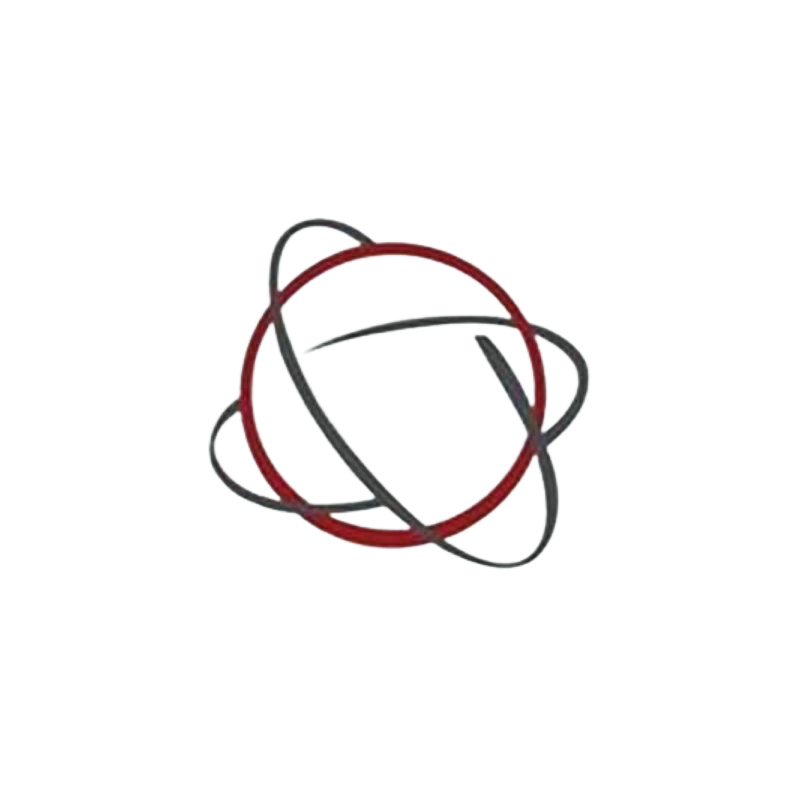
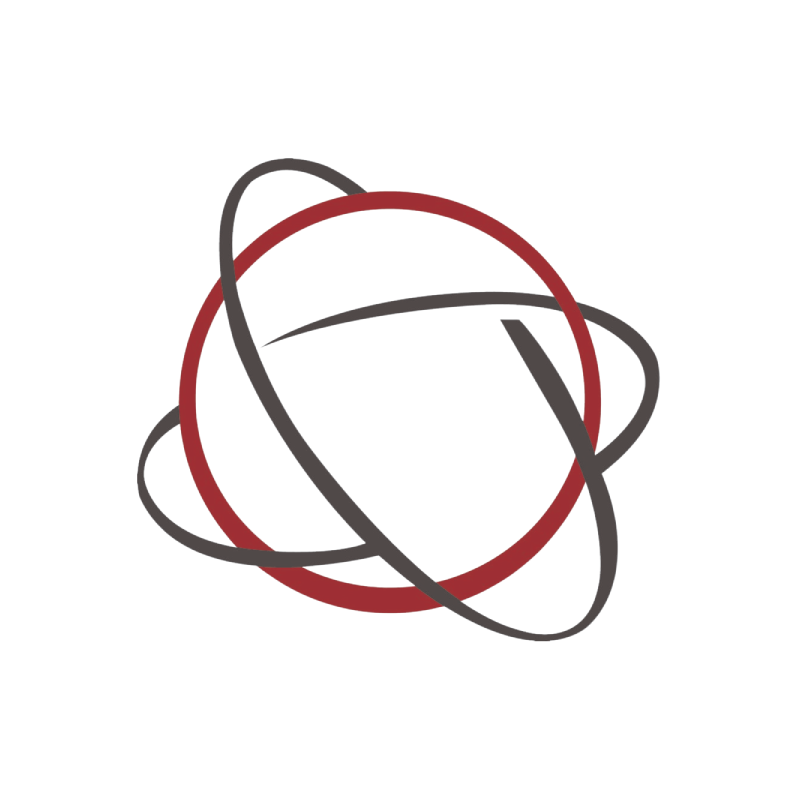
Update: Experience

Changed region(s): [[0.1562, 0.1875, 0.8438, 0.8125]]

diff --git a/src/assets/contents/experience.js b/src/assets/contents/experience.js
@@ -1,4 +1,4 @@
-import jmm from "../images/experiences/jmm.png";
+import jiomhw from "../images/experiences/jiomhw.png";
 import vertere from "../images/experiences/vertere.png";
 import aaisi from "../images/experiences/aaisi.png";
 import leekie from "../images/experiences/leekie.png";
@@ -36,7 +36,7 @@ export const experiences = [
   {
     position: "Research & Development Programmer",
     company: "JIO MHW Global Channel Manufacturing Corp.",
-    icon: jmm,
+    icon: jiomhw,
     date: "December 2017 - November 2018",
     details:
       "I developed a desktop application using C# in MS Visual Studio and programmed C++ on Arduino to control the underlying small machine. I maintained and improved the desktop application's functionality and researched ways to enhance its performance.",
